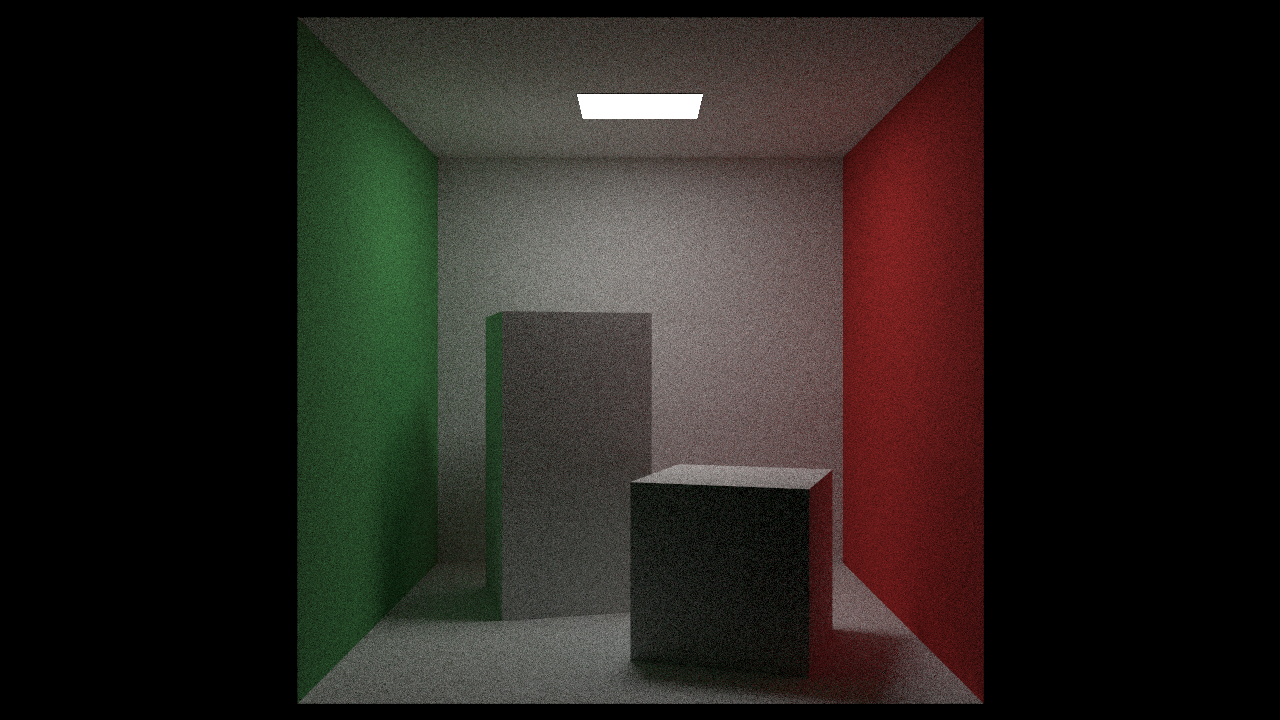
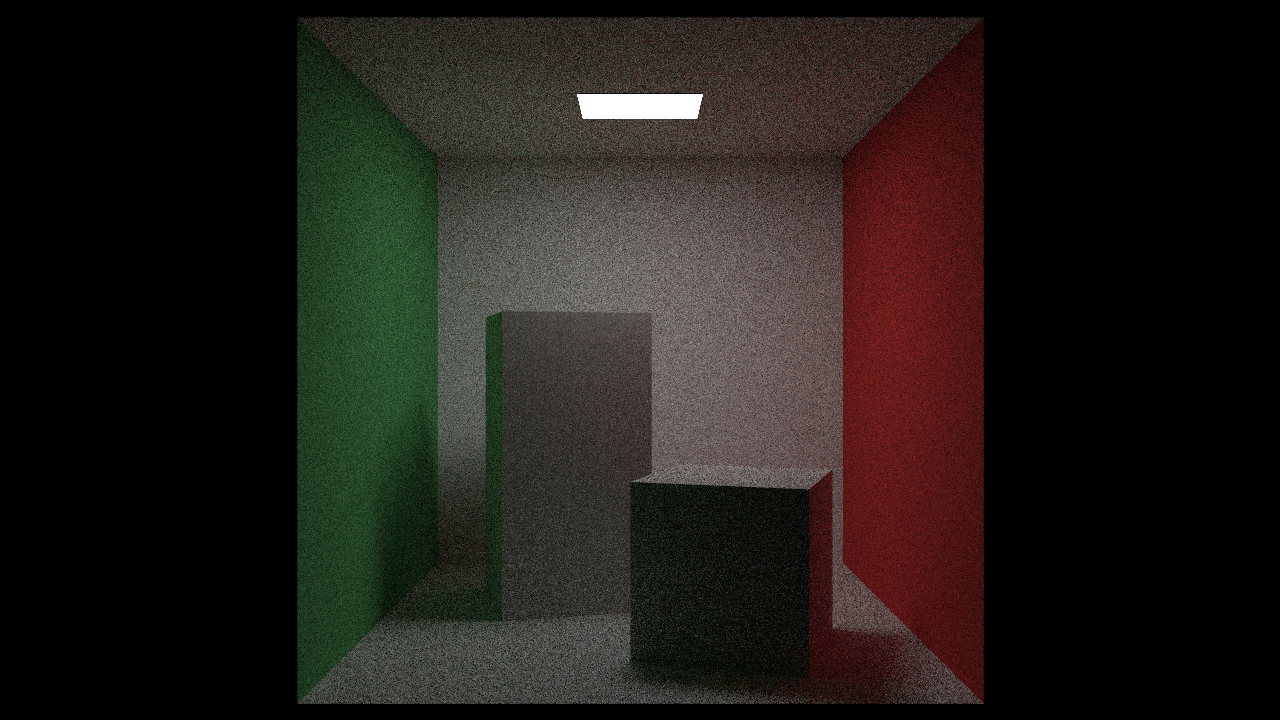
feat: uniform hemisphere pdf for lambertion material

Changed region(s): [[0.2188, 0.0306, 0.7812, 0.9778], [0.25, 0.6417, 0.2812, 0.7028], [0.25, 0.7333, 0.2812, 0.7639]]

diff --git a/src/common/common.h b/src/common/common.h
@@ -97,6 +97,18 @@ inline Vec3d random_cosine_direction() {
     return {x, y, z};
 }
 
+inline Vec3d random_uniform_hemisphere_direction() {
+    const double r1 = random_double();
+    const double r2 = random_double();
+
+    const double phi = 2.0 * pi * r1;
+    const double x = std::cos(phi) * 2.0 * std::sqrt(r2 * (1.0 - r2));
+    const double y = std::sin(phi) * 2.0 * std::sqrt(r2 * (1.0 - r2));
+    const double z = 1.0 - r2;
+
+    return {x, y, z};
+}
+
 inline Vec3d reflect(const Vec3d& v, const Vec3d& n) {
     return v - 2.0 * v.dot(n) * n;
 }

diff --git a/src/common/material.h b/src/common/material.h
@@ -56,7 +56,7 @@ struct Lambertion {
 
     bool scatter(const Ray& ray_in, const HitRecord& hit_rec, Vec3d& attenuation, Ray& scattered,
         double& pdf) const {
-        const CosinePDF surface_pdf {hit_rec.normal};
+        const UniformHemispherePDF surface_pdf {hit_rec.normal};
         const Vec3d scatter_direction = surface_pdf.generate().normalized();
 
         scattered = Ray(hit_rec.p, scatter_direction, ray_in.time());

diff --git a/src/common/pdf.h b/src/common/pdf.h
@@ -32,3 +32,13 @@ struct CosinePDF {
 
     ONB m_uvw;
 };
+
+struct UniformHemispherePDF {
+    UniformHemispherePDF(const Vec3d& w) : m_uvw(w) {}
+
+    double value(const Vec3d&) const { return 1.0 / (2.0 * pi); }
+
+    Vec3d generate() const { return m_uvw.from_basis(random_uniform_hemisphere_direction()); }
+
+    ONB m_uvw;
+};
